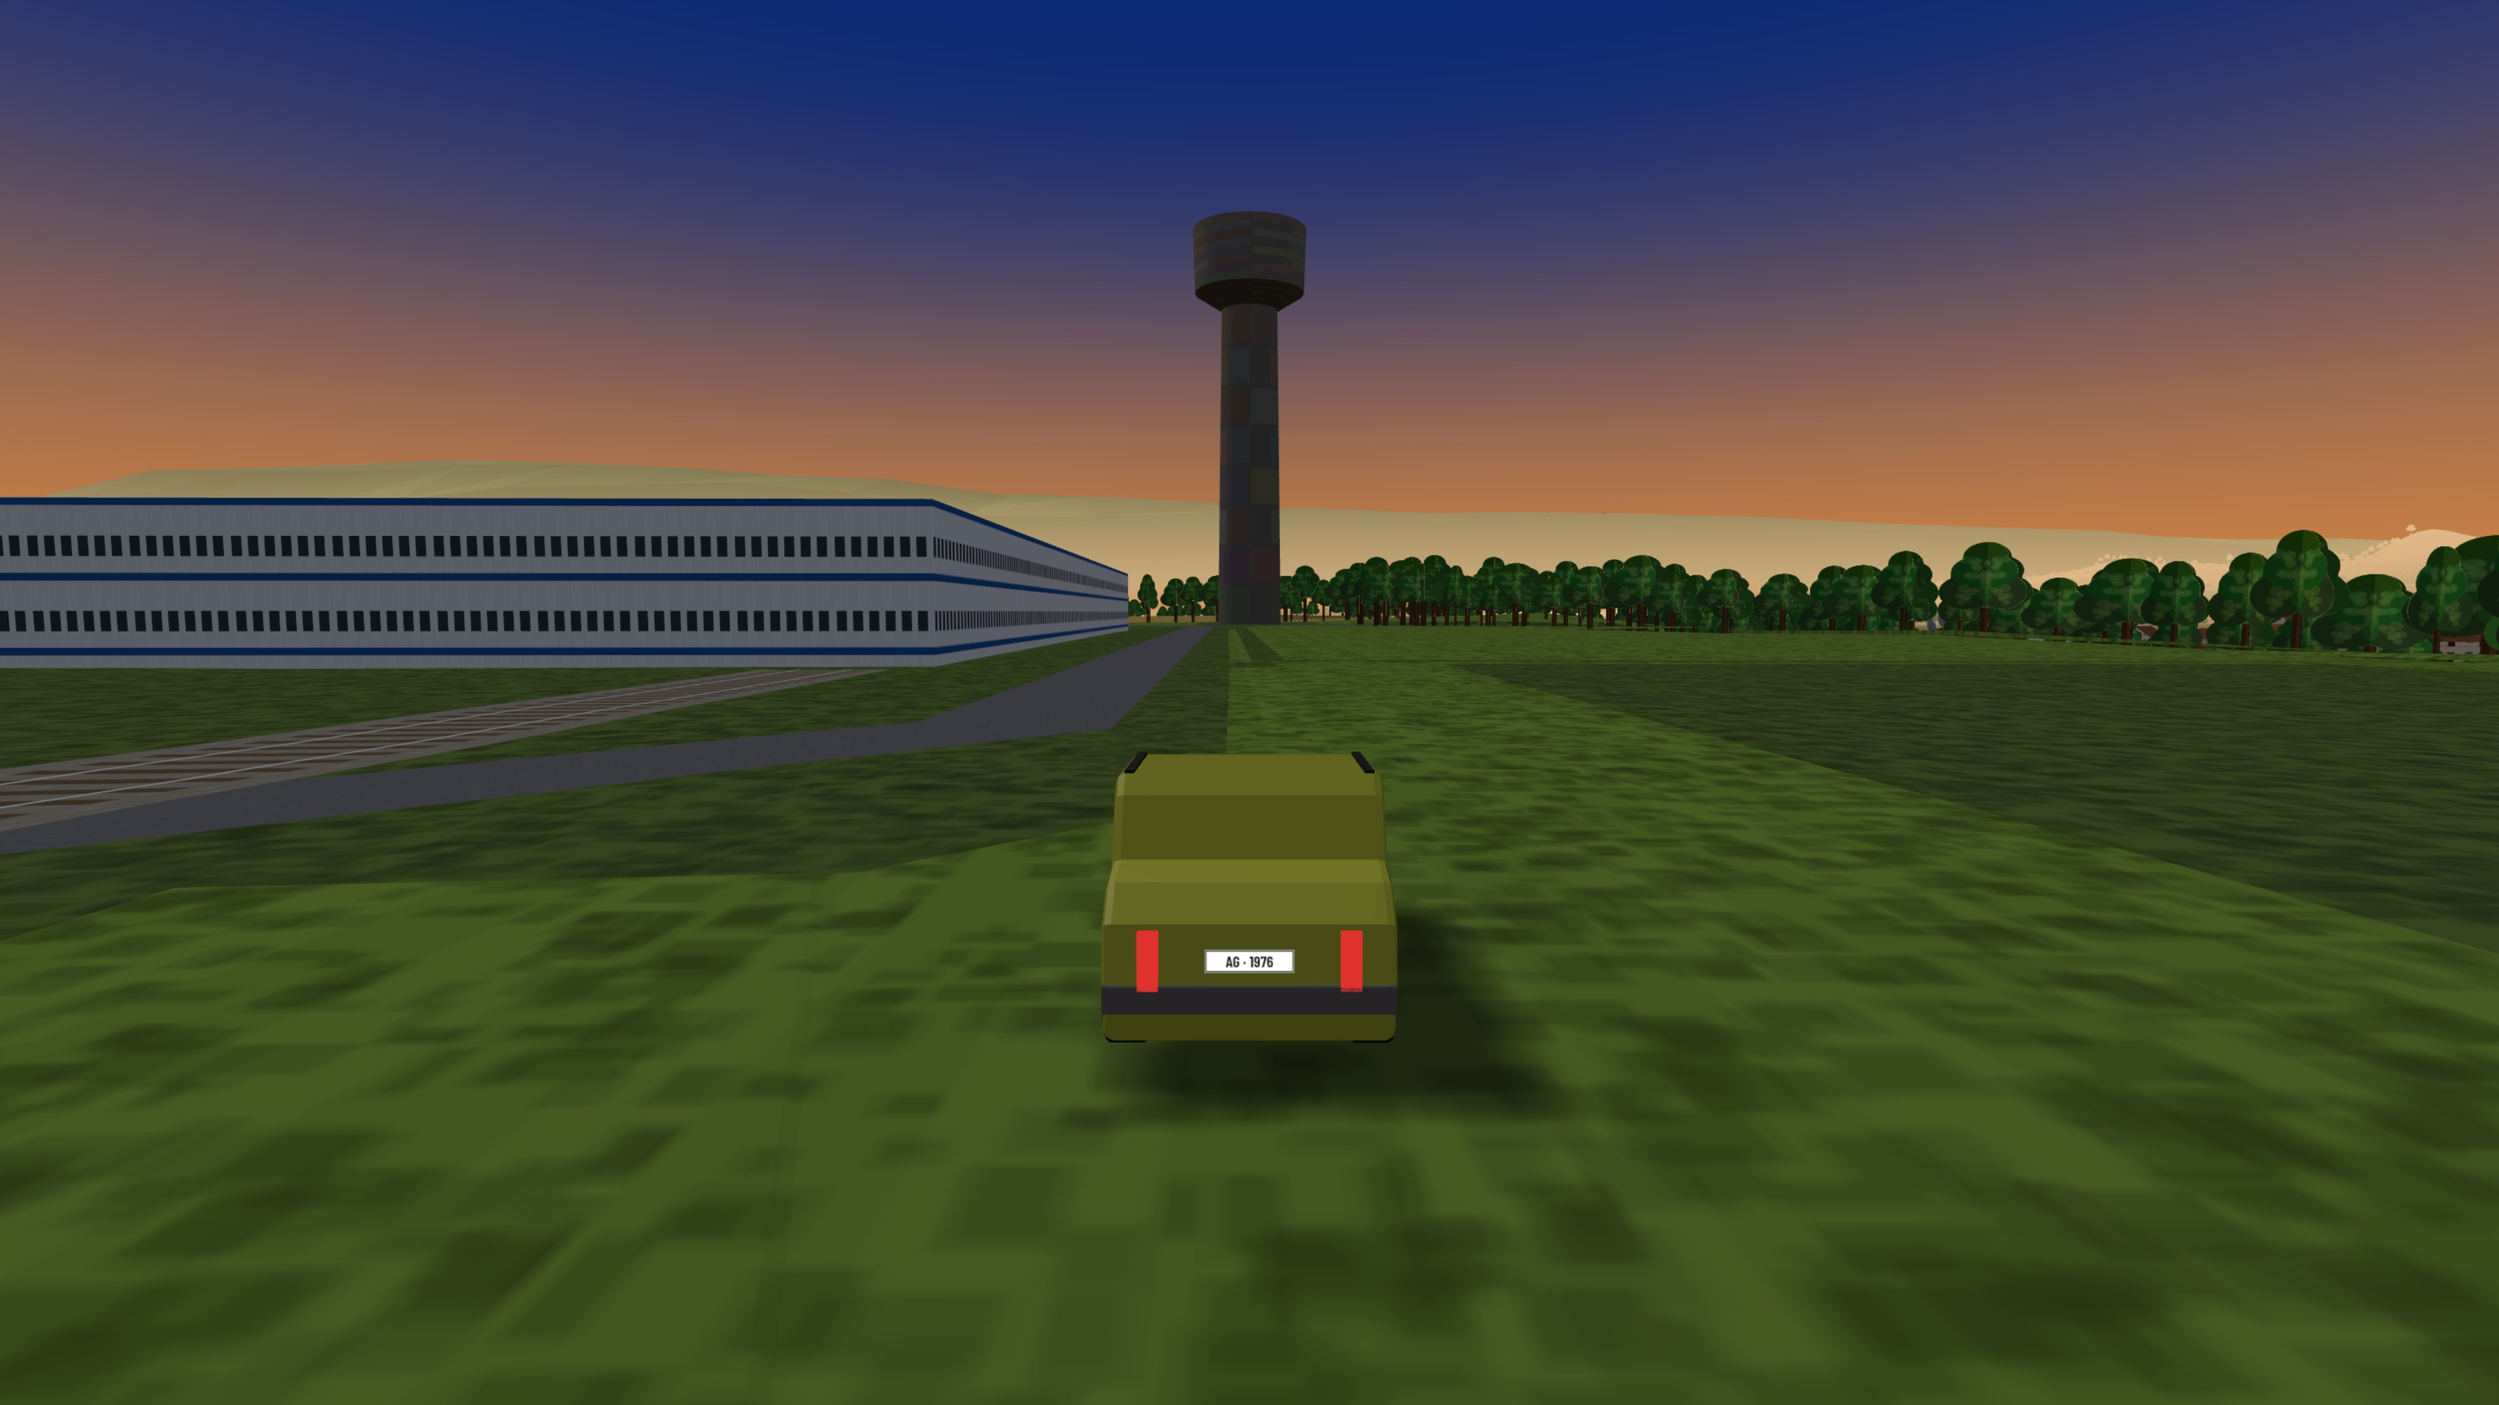
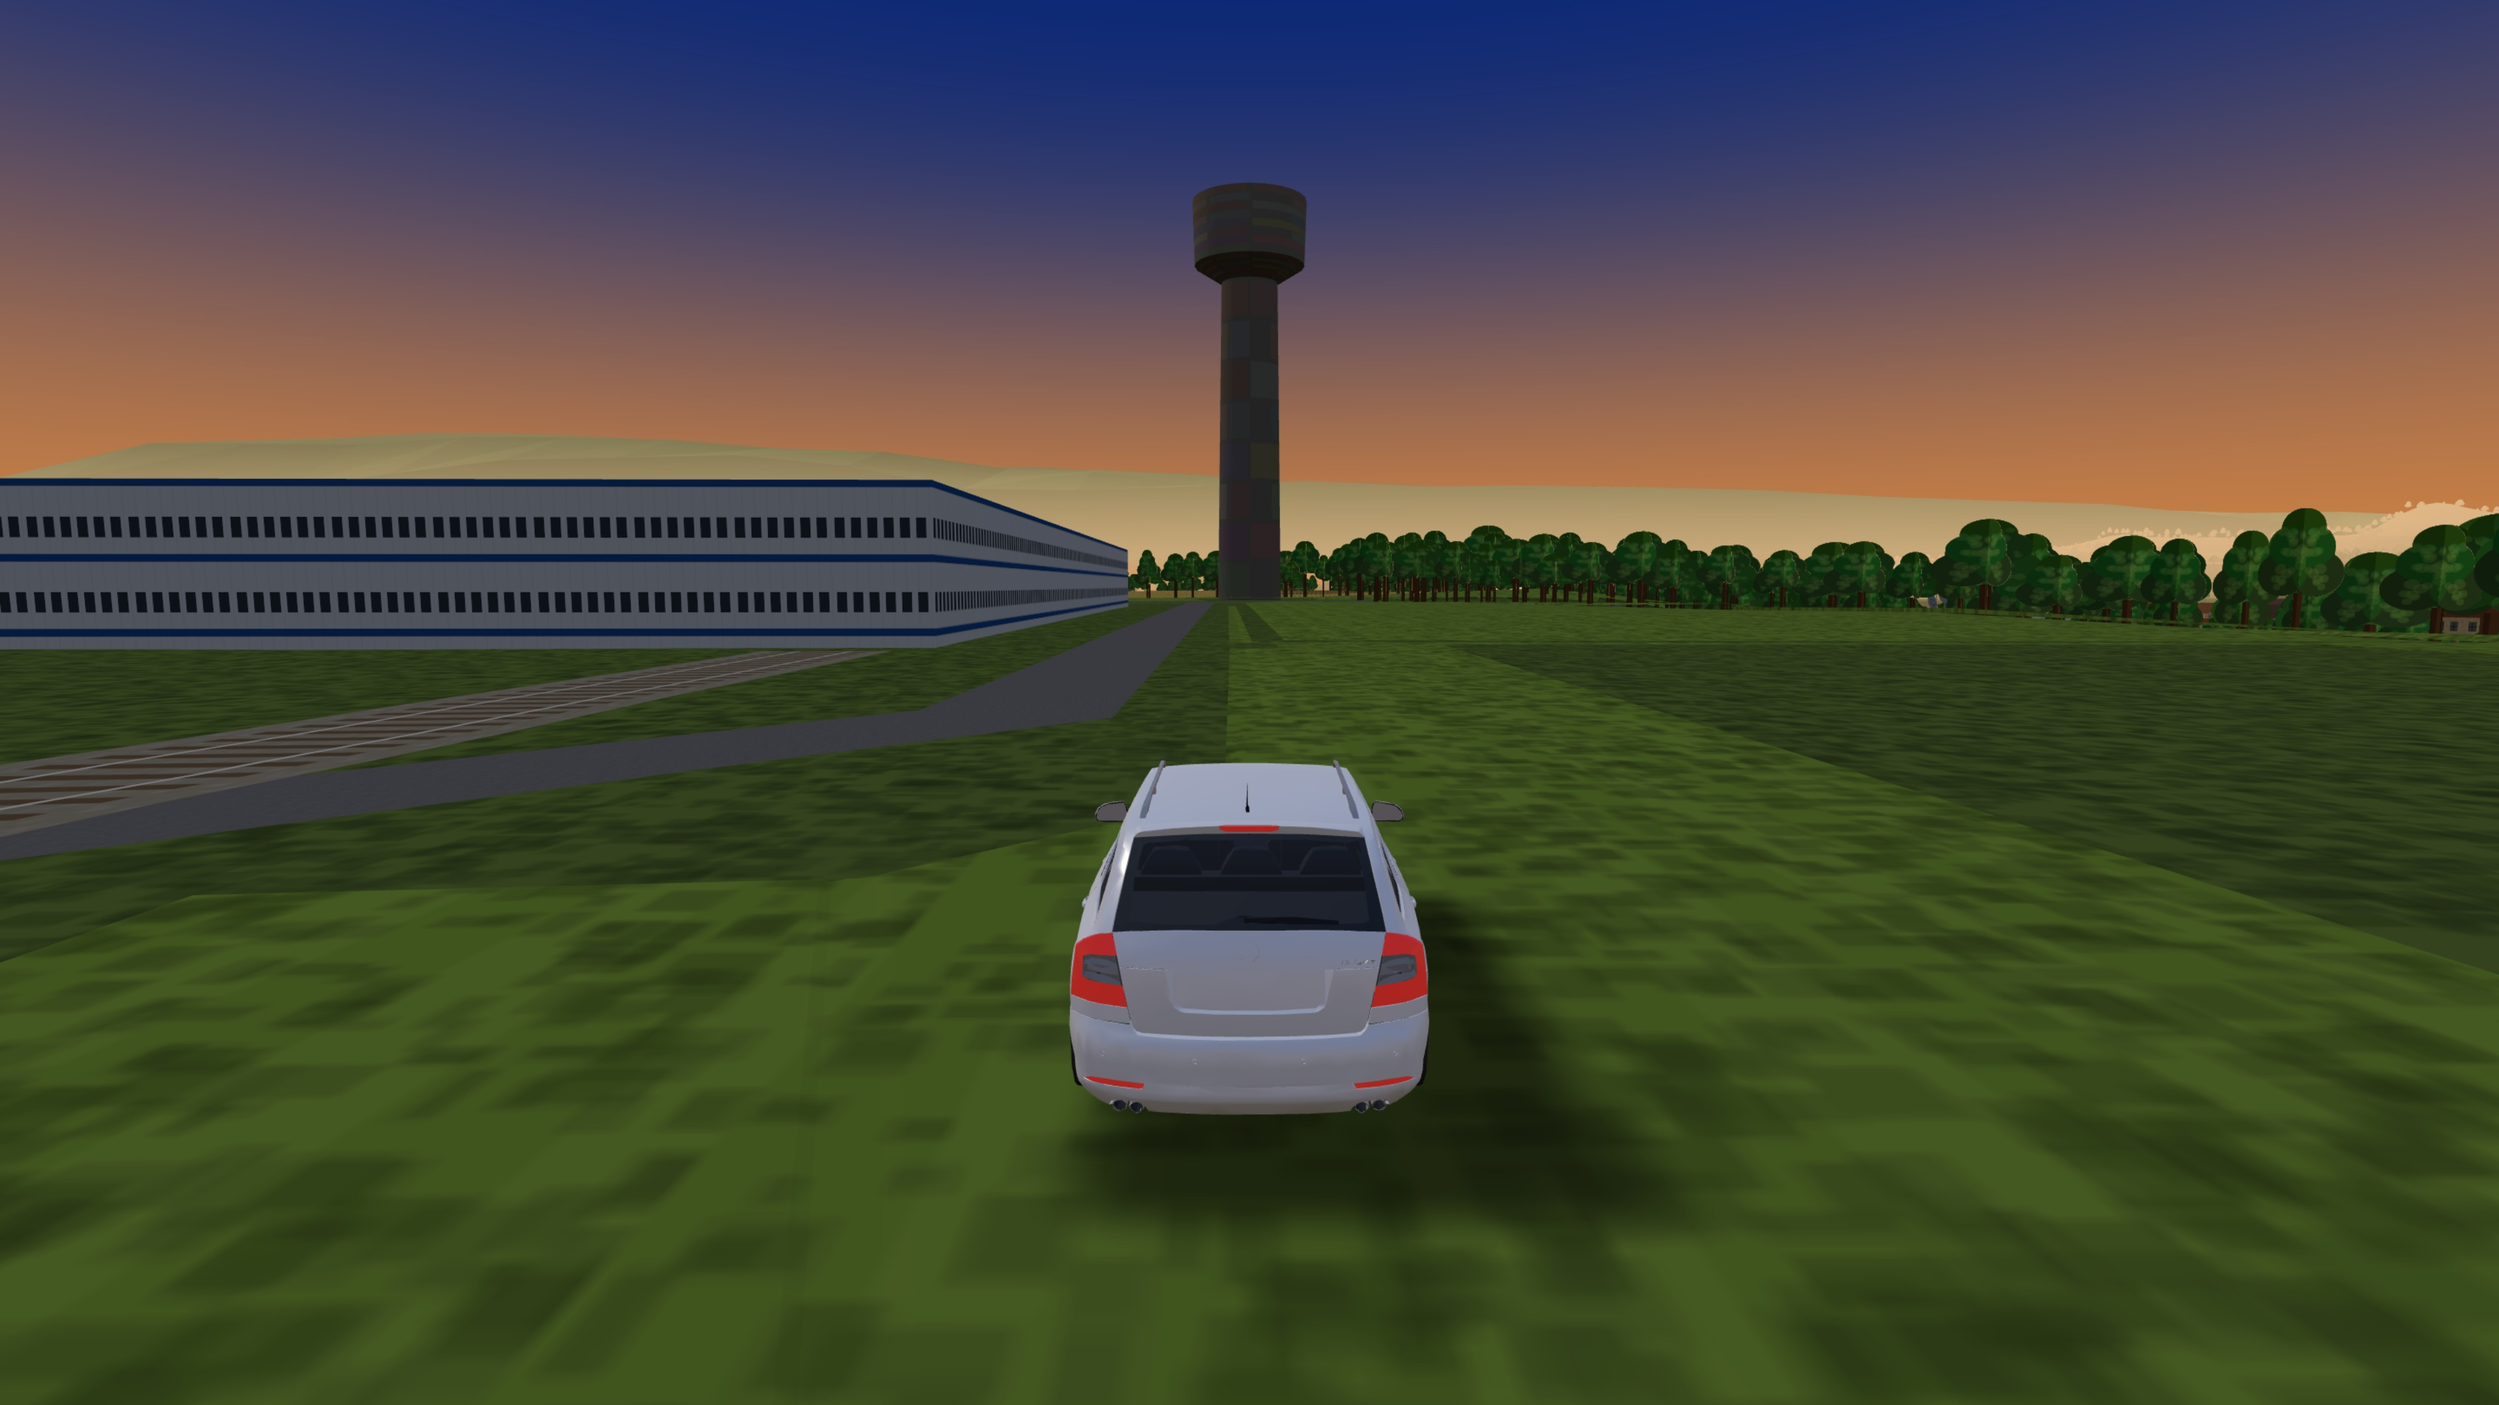
docs(gallery): closer Plattform shots, fields from the air, combine harvester
The NFZ article focuses on the Plattform: three new shots show it large in
the frame. The fields aerial and the harvester show the farmland data the
article mentions. The Fridolinsmünster shot goes (not a proper landmark yet),
and the scenes use modern cars instead of the DeLorean and the Mini.

Claude-Session: https://claude.ai/code/session_01CCZvVD3W1FFQ2k8dsQQTey

diff --git a/presse/index.html b/presse/index.html
@@ -43,14 +43,19 @@ dd{margin:0}
 
 <h2>Plattform Sisslerfeld</h2>
 <div class="grid">
+<figure><a href="../docs/gallery/plattform-nah-3840.jpg" download><img src="../docs/gallery/plattform-nah-1920.jpg" alt="Plattform Sisslerfeld aus der Nähe" loading="lazy"></a><figcaption>Plattform Sisslerfeld aus der Nähe<br><a href="../docs/gallery/plattform-nah-3840.jpg" download>Herunterladen (3840&times;2160)</a></figcaption></figure>
+<figure><a href="../docs/gallery/plattform-treppe-3840.jpg" download><img src="../docs/gallery/plattform-treppe-1920.jpg" alt="Plattform Sisslerfeld, Treppe und Aussichtsdeck" loading="lazy"></a><figcaption>Plattform Sisslerfeld, Treppe und Aussichtsdeck<br><a href="../docs/gallery/plattform-treppe-3840.jpg" download>Herunterladen (3840&times;2160)</a></figcaption></figure>
+<figure><a href="../docs/gallery/plattform-kombi-3840.jpg" download><img src="../docs/gallery/plattform-kombi-1920.jpg" alt="Plattform Sisslerfeld mit dem Kombi" loading="lazy"></a><figcaption>Plattform Sisslerfeld mit dem Kombi<br><a href="../docs/gallery/plattform-kombi-3840.jpg" download>Herunterladen (3840&times;2160)</a></figcaption></figure>
 <figure><a href="../docs/gallery/plattform-luftbild-3840.jpg" download><img src="../docs/gallery/plattform-luftbild-1920.jpg" alt="Plattform Sisslerfeld von oben" loading="lazy"></a><figcaption>Plattform Sisslerfeld von oben<br><a href="../docs/gallery/plattform-luftbild-3840.jpg" download>Herunterladen (3840&times;2160)</a></figcaption></figure>
 <figure><a href="../docs/gallery/plattform-auto-3840.jpg" download><img src="../docs/gallery/plattform-auto-1920.jpg" alt="Plattform Sisslerfeld mit dem Postauto" loading="lazy"></a><figcaption>Plattform Sisslerfeld mit dem Postauto<br><a href="../docs/gallery/plattform-auto-3840.jpg" download>Herunterladen (3840&times;2160)</a></figcaption></figure>
 <figure><a href="../docs/gallery/plattform-aussicht-3840.jpg" download><img src="../docs/gallery/plattform-aussicht-1920.jpg" alt="Aussicht von der Plattform Sisslerfeld zur DSM" loading="lazy"></a><figcaption>Aussicht von der Plattform Sisslerfeld zur DSM<br><a href="../docs/gallery/plattform-aussicht-3840.jpg" download>Herunterladen (3840&times;2160)</a></figcaption></figure>
 <figure><a href="../docs/gallery/plattform-dsm-3840.jpg" download><img src="../docs/gallery/plattform-dsm-1920.jpg" alt="Plattform Sisslerfeld, dahinter der DSM-Kamin" loading="lazy"></a><figcaption>Plattform Sisslerfeld, dahinter der DSM-Kamin<br><a href="../docs/gallery/plattform-dsm-3840.jpg" download>Herunterladen (3840&times;2160)</a></figcaption></figure>
+<figure><a href="../docs/gallery/maehdrescher-feld-3840.jpg" download><img src="../docs/gallery/maehdrescher-feld-1920.jpg" alt="Mähdrescher auf dem Acker bei der Plattform" loading="lazy"></a><figcaption>Mähdrescher auf dem Acker bei der Plattform<br><a href="../docs/gallery/maehdrescher-feld-3840.jpg" download>Herunterladen (3840&times;2160)</a></figcaption></figure>
 </div>
 
 <h2>Weitere Bilder</h2>
 <div class="grid">
+<figure><a href="../docs/gallery/felder-luftbild-3840.jpg" download><img src="../docs/gallery/felder-luftbild-1920.jpg" alt="Die Felder des Sisslerfelds aus der Luft" loading="lazy"></a><figcaption>Die Felder des Sisslerfelds aus der Luft<br><a href="../docs/gallery/felder-luftbild-3840.jpg" download>Herunterladen (3840&times;2160)</a></figcaption></figure>
 <figure><a href="../docs/gallery/holzbruecke-aussen-3840.jpg" download><img src="../docs/gallery/holzbruecke-aussen-1920.jpg" alt="Holzbrücke Bad Säckingen über den Rhein" loading="lazy"></a><figcaption>Holzbrücke Bad Säckingen über den Rhein<br><a href="../docs/gallery/holzbruecke-aussen-3840.jpg" download>Herunterladen (3840&times;2160)</a></figcaption></figure>
 <figure><a href="../docs/gallery/holzbruecke-nah-3840.jpg" download><img src="../docs/gallery/holzbruecke-nah-1920.jpg" alt="Holzbrücke aus der Nähe, der Länge nach" loading="lazy"></a><figcaption>Holzbrücke aus der Nähe, der Länge nach<br><a href="../docs/gallery/holzbruecke-nah-3840.jpg" download>Herunterladen (3840&times;2160)</a></figcaption></figure>
 <figure><a href="../docs/gallery/dsm-sisseln-3840.jpg" download><img src="../docs/gallery/dsm-sisseln-1920.jpg" alt="DSM Sisseln und der Kamin" loading="lazy"></a><figcaption>DSM Sisseln und der Kamin<br><a href="../docs/gallery/dsm-sisseln-3840.jpg" download>Herunterladen (3840&times;2160)</a></figcaption></figure>
@@ -59,7 +64,6 @@ dd{margin:0}
 <figure><a href="../docs/gallery/dampflok-sisseln-3840.jpg" download><img src="../docs/gallery/dampflok-sisseln-1920.jpg" alt="Dampflok auf den Schienen beim Bahnhof Sisseln" loading="lazy"></a><figcaption>Dampflok auf den Schienen beim Bahnhof Sisseln<br><a href="../docs/gallery/dampflok-sisseln-3840.jpg" download>Herunterladen (3840&times;2160)</a></figcaption></figure>
 <figure><a href="../docs/gallery/dorfstrasse-hausnummern-3840.jpg" download><img src="../docs/gallery/dorfstrasse-hausnummern-1920.jpg" alt="Hinterdorfstrasse Sisseln mit Hausnummern-Schildern" loading="lazy"></a><figcaption>Hinterdorfstrasse Sisseln mit Hausnummern-Schildern<br><a href="../docs/gallery/dorfstrasse-hausnummern-3840.jpg" download>Herunterladen (3840&times;2160)</a></figcaption></figure>
 <figure><a href="../docs/gallery/smile-kreisel-3840.jpg" download><img src="../docs/gallery/smile-kreisel-1920.jpg" alt="Der Smile-Kreisel" loading="lazy"></a><figcaption>Der Smile-Kreisel<br><a href="../docs/gallery/smile-kreisel-3840.jpg" download>Herunterladen (3840&times;2160)</a></figcaption></figure>
-<figure><a href="../docs/gallery/muenster-stein-3840.jpg" download><img src="../docs/gallery/muenster-stein-1920.jpg" alt="Fridolinsmünster" loading="lazy"></a><figcaption>Fridolinsmünster<br><a href="../docs/gallery/muenster-stein-3840.jpg" download>Herunterladen (3840&times;2160)</a></figcaption></figure>
 </div>
 
 <h2>Bildnachweis</h2>

diff --git a/scripts/shots.py b/scripts/shots.py
@@ -36,13 +36,13 @@ FOOT_AGL = (1.7, 150)      # WALKER.eye .. WALKER.hoverMaxAgl
 FOOT_PITCH = (-80, 80)     # WALKER.pitchMax is 1.4 rad
 STARTS = ("trial", "cruise")   # optional `start`: cruise has no checkpoint pillars and no finish in the frame (default trial)
 STYLES = ("original", "smooth")
-VEHICLES = ("compact", "delorean", "mini", "bus")
+VEHICLES = ("compact", "delorean", "mini", "bus", "estate", "coupe", "hyper", "harvester")
 TIMES = ("day",)        # the game has no time of day (spec A3)
 WEATHERS = ("clear",)   # nor weather
 ENUMS = {"mode": MODES, "camera": CAMERAS, "style": STYLES, "vehicle": VEHICLES, "time": TIMES, "weather": WEATHERS, "start": STARTS}
 ID_RE = re.compile(r"[a-z0-9]+(-[a-z0-9]+)*")
 NEAR_MAX_M = 600
-COUNT_RANGE = (8, 14)
+COUNT_RANGE = (8, 18)
 
 
 def _is_point(p) -> bool:
@@ -225,7 +225,7 @@ def start_game(page, base_url: str, shot: dict, args) -> None:
 def stage(page, shot: dict) -> None:
     """Style, vehicle, placement, motion: everything the picture shows, before the clean-up and the camera wait."""
     page.evaluate("(k) => window.__mm.setStyle(k)", shot["style"])
-    page.evaluate("(id) => { const v = window.__mm.vehicles()[id]; if (!v) throw new Error('unknown vehicle ' + id); window.__mm.setVehicle(v); }", shot["vehicle"])
+    page.evaluate("async (id) => { const v = window.__mm.vehicles()[id]; if (!v) throw new Error('unknown vehicle ' + id); if (v.gltf) await window.__mm.loadVehicle(id); window.__mm.setVehicle(v); }", shot["vehicle"])   # glTF cars: wait for the model, not the stand-in
     page.evaluate("([x, z, th]) => window.__mm.place(x, z, th)", [shot["at"]["x"], shot["at"]["z"], heading(shot["at"], shot["look_at"])])
     if shot["mode"] == "heli":
         page.keyboard.press("KeyF")

diff --git a/tests/test_shots.py b/tests/test_shots.py
@@ -51,8 +51,8 @@ def test_validate_shots_checks_the_landmark_distance_and_a_distinct_heading_targ
 def test_validate_shots_needs_climb_seconds_for_the_heli_and_a_count_in_range():
     assert any("climb_s" in e for e in shots.validate_shots([shot(mode="heli")], REGIONS, LANDMARKS, min_count=1))
     assert shots.validate_shots([shot(mode="heli", climb_s=3)], REGIONS, LANDMARKS, min_count=1) == []
-    assert any("8-14" in e for e in shots.validate_shots([shot()], REGIONS, LANDMARKS))
-    assert not any("8-14" in e for e in shots.validate_shots([shot(id=f"m{i}") for i in range(14)], REGIONS, LANDMARKS))
+    assert any("8-18" in e for e in shots.validate_shots([shot()], REGIONS, LANDMARKS))
+    assert not any("8-18" in e for e in shots.validate_shots([shot(id=f"m{i}") for i in range(18)], REGIONS, LANDMARKS))
 
 
 def test_heading_points_from_at_to_look_at():

diff --git a/README.md b/README.md
@@ -26,6 +26,11 @@ Dedicated to my daughter.
   <a href="docs/gallery/plattform-dsm-3840.jpg"><img src="docs/gallery/plattform-dsm-1920.jpg" width="32%" alt="Rhyflitzer – Map Madness: Plattform Sisslerfeld, the DSM chimney behind"></a>
   <a href="docs/gallery/plattform-luftbild-3840.jpg"><img src="docs/gallery/plattform-luftbild-1920.jpg" width="32%" alt="Rhyflitzer – Map Madness: Plattform Sisslerfeld from above"></a>
   <a href="docs/gallery/plattform-aussicht-3840.jpg"><img src="docs/gallery/plattform-aussicht-1920.jpg" width="32%" alt="Rhyflitzer – Map Madness: View from the Plattform Sisslerfeld to DSM"></a>
+  <a href="docs/gallery/plattform-nah-3840.jpg"><img src="docs/gallery/plattform-nah-1920.jpg" width="32%" alt="Rhyflitzer – Map Madness: Plattform Sisslerfeld up close"></a>
+  <a href="docs/gallery/plattform-treppe-3840.jpg"><img src="docs/gallery/plattform-treppe-1920.jpg" width="32%" alt="Rhyflitzer – Map Madness: Plattform Sisslerfeld, stair and deck"></a>
+  <a href="docs/gallery/plattform-kombi-3840.jpg"><img src="docs/gallery/plattform-kombi-1920.jpg" width="32%" alt="Rhyflitzer – Map Madness: Plattform Sisslerfeld with the estate"></a>
+  <a href="docs/gallery/felder-luftbild-3840.jpg"><img src="docs/gallery/felder-luftbild-1920.jpg" width="32%" alt="Rhyflitzer – Map Madness: The fields of the Sisslerfeld from the air"></a>
+  <a href="docs/gallery/maehdrescher-feld-3840.jpg"><img src="docs/gallery/maehdrescher-feld-1920.jpg" width="32%" alt="Rhyflitzer – Map Madness: Combine harvester in a field by the Plattform"></a>
   <a href="docs/gallery/holzbruecke-aussen-3840.jpg"><img src="docs/gallery/holzbruecke-aussen-1920.jpg" width="32%" alt="Rhyflitzer – Map Madness: Holzbrücke Bad Säckingen across the Rhine"></a>
   <a href="docs/gallery/holzbruecke-nah-3840.jpg"><img src="docs/gallery/holzbruecke-nah-1920.jpg" width="32%" alt="Rhyflitzer – Map Madness: Holzbrücke, close, along its length"></a>
   <a href="docs/gallery/dsm-sisseln-3840.jpg"><img src="docs/gallery/dsm-sisseln-1920.jpg" width="32%" alt="Rhyflitzer – Map Madness: DSM Sisseln and its chimney"></a>
@@ -34,7 +39,6 @@ Dedicated to my daughter.
   <a href="docs/gallery/dampflok-sisseln-3840.jpg"><img src="docs/gallery/dampflok-sisseln-1920.jpg" width="32%" alt="Rhyflitzer – Map Madness: Steam loco on the tracks at Bahnhof Sisseln"></a>
   <a href="docs/gallery/dorfstrasse-hausnummern-3840.jpg"><img src="docs/gallery/dorfstrasse-hausnummern-1920.jpg" width="32%" alt="Rhyflitzer – Map Madness: Hinterdorfstrasse Sisseln with house-number plates"></a>
   <a href="docs/gallery/smile-kreisel-3840.jpg"><img src="docs/gallery/smile-kreisel-1920.jpg" width="32%" alt="Rhyflitzer – Map Madness: The Smile roundabout"></a>
-  <a href="docs/gallery/muenster-stein-3840.jpg"><img src="docs/gallery/muenster-stein-1920.jpg" width="32%" alt="Rhyflitzer – Map Madness: Fridolinsmünster"></a>
 </p>
 <!-- shots:end -->
 

diff --git a/CHANGELOG.md b/CHANGELOG.md
@@ -10,6 +10,7 @@ Every entry carries the date and time it went live, in Swiss local time (Europe/
 
 ### Added
 
+- `2026-11-15 20:28` Mehr **Pressebilder**: die Plattform Sisslerfeld aus der Nähe, ein **Luftbild der Felder** im Sisslerfeld und ein **Mähdrescher** auf dem Acker; die Spielszenen zeigen modernere Autos.
 - `2026-11-15 15:09` **Pressematerial** unter **rhyflitzer.ch/presse**: Bilder der Plattform Sisslerfeld und weitere Spielszenen in Druckqualität zum Herunterladen, die YouTube-Playlist und die wichtigsten Angaben zum Spiel.
 - `2026-11-15 09:54` Im Mehrspieler ist schon ein **lustiger Name** eingetragen; wer einen eigenen tippt, behält ihn.
 - `2026-11-14 21:28` Neu: **Ausliefern**. Auf dem Startbildschirm startet **Ausliefern** eine Schicht mit fünf Bestellungen. Ab der Pizzeria führt das Navi zu einer echten Hausadresse, die Zeit läuft, und wer rasant und sorgsam fährt, bekommt mehr **Trinkgeld**: Mit jedem Crash leidet die Pizza, bei 0 % ist sie hin. Der beste Wert wird gespeichert. Während einer Lieferung gehen <kbd>J</kbd>, <kbd>F</kbd> und <kbd>O</kbd> nicht, und <kbd>R</kbd> kostet 15 Sekunden.
